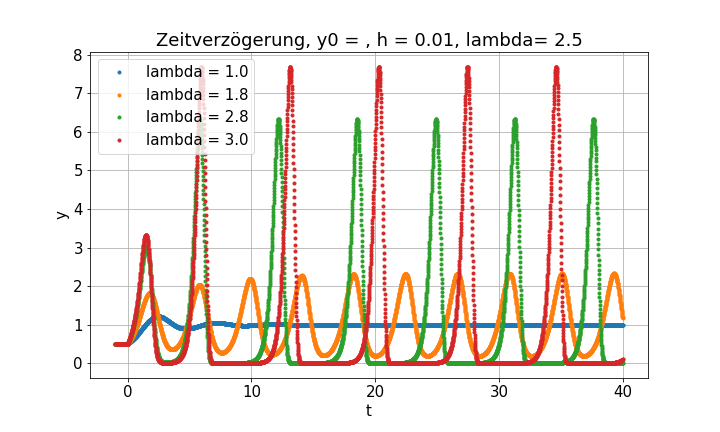
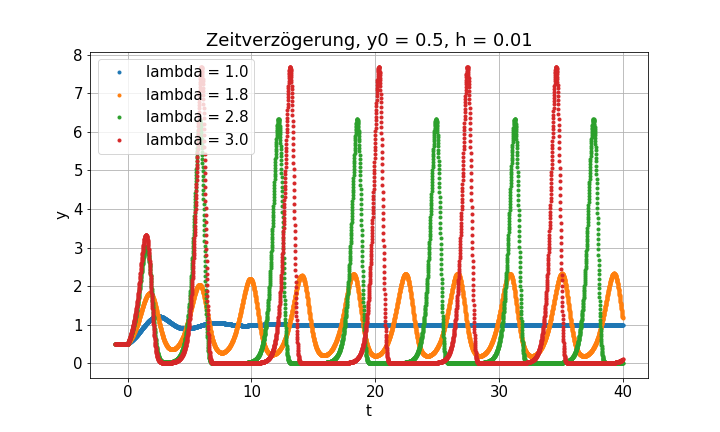
A3 finalfix

Changed region(s): [[0.2139, 0.0602, 0.55, 0.1204], [0.5806, 0.0602, 0.825, 0.1204]]

diff --git a/Zettel3/A3.py b/Zettel3/A3.py
@@ -63,8 +63,8 @@ def rk4_2d(t0,y0,T,h, lambwo):
 t, y = rk4_2d(t0, y0, T, h, lambwo)
 
 fig = plt.figure(figsize=fig_size)
-plt.title("Zeitverzögerung, y0 = " +
-        ", h = " + str(h) +", lambda= " + str(lambwo))
+plt.title("Zeitverzögerung, y0 = " + str(y0)+
+        ", h = " + str(h) + ", lambda= "  + str(lambwo))
 plt.plot(t, y,".")
 plt.grid()
 plt.ylabel('y')
@@ -75,8 +75,8 @@ plt.show()
 # %%
 
 fig = plt.figure(figsize=fig_size)
-plt.title("Zeitverzögerung, y0 = " +
-        ", h = " + str(h) +", lambda= " + str(lambwo))
+plt.title("Zeitverzögerung, y0 = " + str(y0)+
+        ", h = " + str(h))
 for lambwo in [1.0, 1.8, 2.8, 3.0]:
     t, y = rk4_2d(t0, y0, T, h, lambwo)
     plt.plot(t, y,".", label="lambda = " + str(lambwo))
